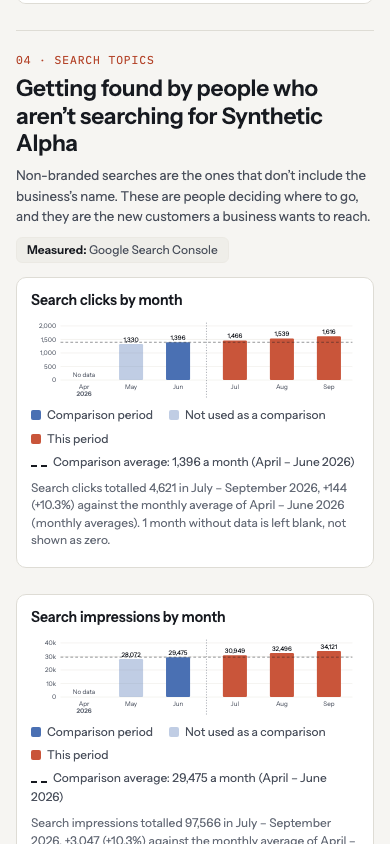
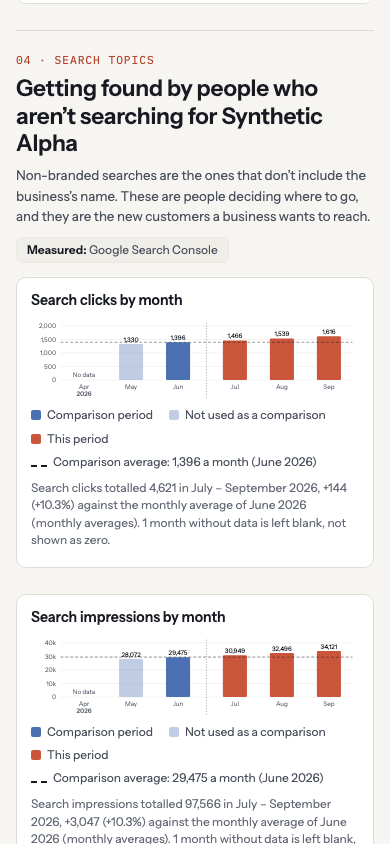
Report charts: name the covered months in the average label and caption
When search_console_compared_as_average exists, the search clicks and
impressions charts name its covered months (coveredRange), like the
headline tile. Other charts are unchanged.

Changed region(s): [[0.0615, 0.8934, 0.9231, 1.0], [0.6462, 0.5237, 0.9231, 0.5545], [0.6462, 0.5853, 0.8923, 0.6161]]

diff --git a/apps/console/tests/unit/report-document.test.ts b/apps/console/tests/unit/report-document.test.ts
@@ -3,7 +3,7 @@ import * as fixture from "../fixtures/report.mjs";
 /* eslint-disable @typescript-eslint/no-explicit-any */
 const detail = fixture.detail as (overrides?: object) => any;
 import { adaptReportDetail } from "../../src/adapters/reports";
-import { toneOf } from "../../src/lib/report-view";
+import { comparedLabel, toneOf } from "../../src/lib/report-view";
 import {
   documentView,
   mergePages,
@@ -319,12 +319,22 @@ describe("sections", () => {
       const comparison = {
         ...base.search_console.clicks,
         compared: { availability: "available", value: 1783 },
+        compared_as: "monthly_average",
         change,
         change_percent: change === null ? null : 3,
       };
       return {
         snapshot: {
           ...base,
+          notes: [
+            ...base.notes,
+            {
+              code: "search_console_compared_as_average",
+              section: "search_console",
+              covered_months: ["2026-06-01"],
+              missing_months: ["2026-04-01", "2026-05-01"],
+            },
+          ],
           monthly: base.monthly.map((item) =>
             item.key === "search_clicks" ? { ...item, compared } : item,
           ),
@@ -343,6 +353,32 @@ describe("sections", () => {
       expect(chart.model.baseline!.label).toContain("1,783 a month");
       expect(chart.excludedNote).toBe(true);
       expect(chart.model.bars.filter((bar) => bar.excluded)).toHaveLength(1);
+    });
+    it("names only the covered months in the line label and the caption", () => {
+      const { snapshot, comparison } = missBs();
+      const chart = monthlyChart(
+        snapshot,
+        "search_clicks",
+        "Search clicks by month",
+        comparison,
+      )!;
+      expect(chart.model.baseline!.label).toBe(
+        "Comparison average: 1,783 a month (June 2026)",
+      );
+      expect(chart.caption).toContain(
+        "against the monthly average of June 2026",
+      );
+      expect(chart.caption).not.toContain("April");
+    });
+    it("leaves charts without that note as they are", () => {
+      const { snapshot } = missBs();
+      const chart = monthlyChart(
+        snapshot,
+        "profile_views",
+        "Profile views by month",
+        snapshot.gbp.profile_views.total,
+      )!;
+      expect(chart.model.baseline!.label).toContain(comparedLabel(snapshot));
     });
     it("draws no line when the compared figure is not comparable", () => {
       const { snapshot, comparison } = missBs(null);

diff --git a/apps/console/src/lib/report-document.ts b/apps/console/src/lib/report-document.ts
@@ -25,6 +25,8 @@ import {
   changeText,
   comparedLabel,
   comparedPhrase,
+  coveredRange,
+  searchCoveredMonths,
   comparisonText,
   countText,
   directionOf,
@@ -449,6 +451,7 @@ export function chartCaption(
   comparison: CountComparison | null,
   snapshot: ReportSnapshot,
   missing: number,
+  covered: readonly string[] | null = null,
 ): string {
   const gap =
     missing > 0
@@ -459,10 +462,13 @@ export function chartCaption(
   const total = countText(comparison.current);
   const averaged = comparison.compared_as === "monthly_average";
   const change = changeText(comparison);
-  const against = comparedPhrase({
-    compared_as: comparison.compared_as,
-    compared: periodOf(snapshot.comparison.compared),
-  });
+  const against =
+    averaged && covered?.length
+      ? `the monthly average of ${coveredRange(covered)}`
+      : comparedPhrase({
+          compared_as: comparison.compared_as,
+          compared: periodOf(snapshot.comparison.compared),
+        });
   return `${noun} totalled ${total} in ${periodLabel(periodOf(snapshot.period))}${
     change && !isPartial(comparison.current)
       ? `, ${change} against ${against}${averaged ? " (monthly averages)" : ""}`
@@ -491,6 +497,11 @@ export function monthlyChart(
       ? [point.value]
       : [],
   );
+  // Search Console may cover only some of the compared months: name those, not the whole period.
+  const covered =
+    key === "search_clicks" || key === "search_impressions"
+      ? searchCoveredMonths(snapshot)
+      : null;
   const comparable =
     !!comparison &&
     present(comparison.compared) &&
@@ -513,6 +524,7 @@ export function monthlyChart(
       comparison,
       snapshot,
       missing,
+      covered,
     ),
     model: barChart({
       title,
@@ -521,7 +533,7 @@ export function monthlyChart(
       baselineText:
         average === null
           ? ""
-          : `Comparison average: ${fmt(average)} a month (${comparedLabel(snapshot)})`,
+          : `Comparison average: ${fmt(average)} a month (${covered?.length ? coveredRange(covered) : comparedLabel(snapshot)})`,
       format: fmt,
       ...(compact ? { width: 320, height: 210 } : {}),
     }),

diff --git a/apps/console/src/lib/report-view.ts b/apps/console/src/lib/report-view.ts
@@ -114,6 +114,11 @@ export function coveredRange(covered: readonly string[]): string {
     ? `${monthName(first)} to ${monthLabel(last)}`
     : `${monthLabel(first)} to ${monthLabel(last)}`;
 }
+/** The months Search Console's comparison covers, when it covers fewer than the compared period. */
+export const searchCoveredMonths = (snapshot: ReportSnapshot) =>
+  snapshot.notes.find(
+    (item) => item.code === "search_console_compared_as_average",
+  )?.covered_months ?? null;
 /** What each "Compare with" choice means, shown under the choice. */
 export const compareHelp = {
   previous: "The same number of months immediately before the report.",
@@ -338,9 +343,7 @@ export function headlineCards(snapshot: ReportSnapshot): HeadlineCard[] {
       compared: periodOf(snapshot.comparison.compared),
     });
   // Search Console may cover only some of the compared months: the tile names those months.
-  const covered = snapshot.notes.find(
-    (item) => item.code === "search_console_compared_as_average",
-  )?.covered_months;
+  const covered = searchCoveredMonths(snapshot);
   return snapshot.headlines.flatMap((item): HeadlineCard[] => {
     const copy = HEADLINE[item.key];
     if (item.count) {

diff --git a/apps/console/tests/browser/step10d.spec.ts b/apps/console/tests/browser/step10d.spec.ts
@@ -59,8 +59,11 @@ test("the client document: charts leave out the first data month", async ({
     "Not used as a comparison",
   );
   await expect(chart.locator("rect.bar.excluded")).toHaveCount(1);
-  await expect(chart.locator(".key.baseline")).toContainText(
-    "Comparison average:",
+  await expect(chart.locator(".key.baseline")).toHaveText(
+    /Comparison average: [\d,]+ a month \(June 2026\)$/,
+  );
+  await expect(chart.locator(".dcaption")).toContainText(
+    "against the monthly average of June 2026",
   );
   await chart.scrollIntoViewIfNeeded();
   await shot(page, "document-search-chart");
